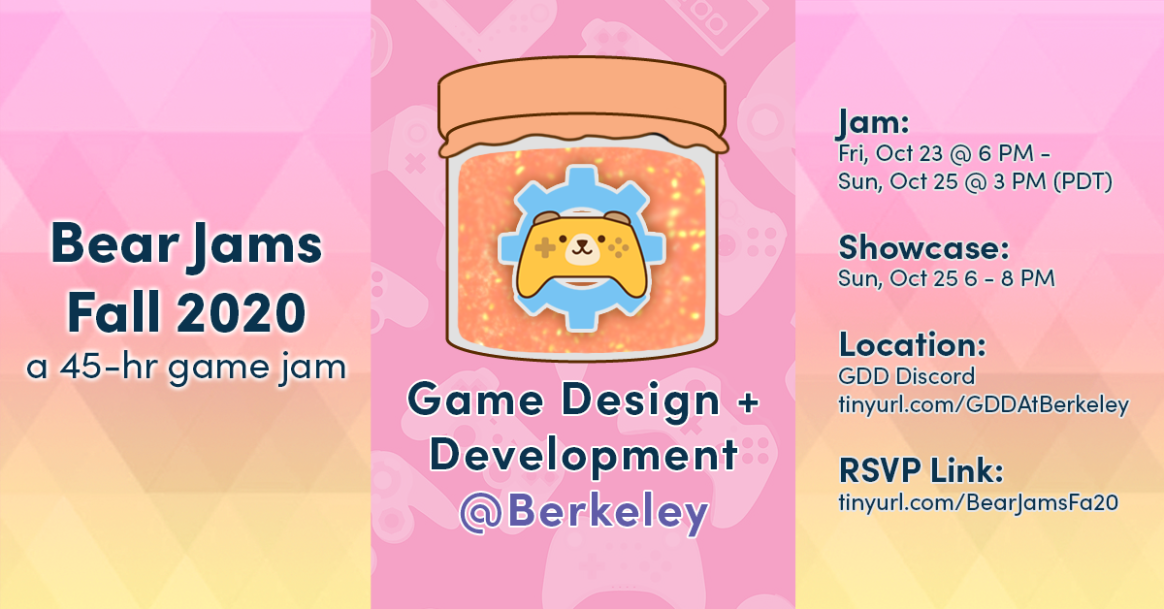
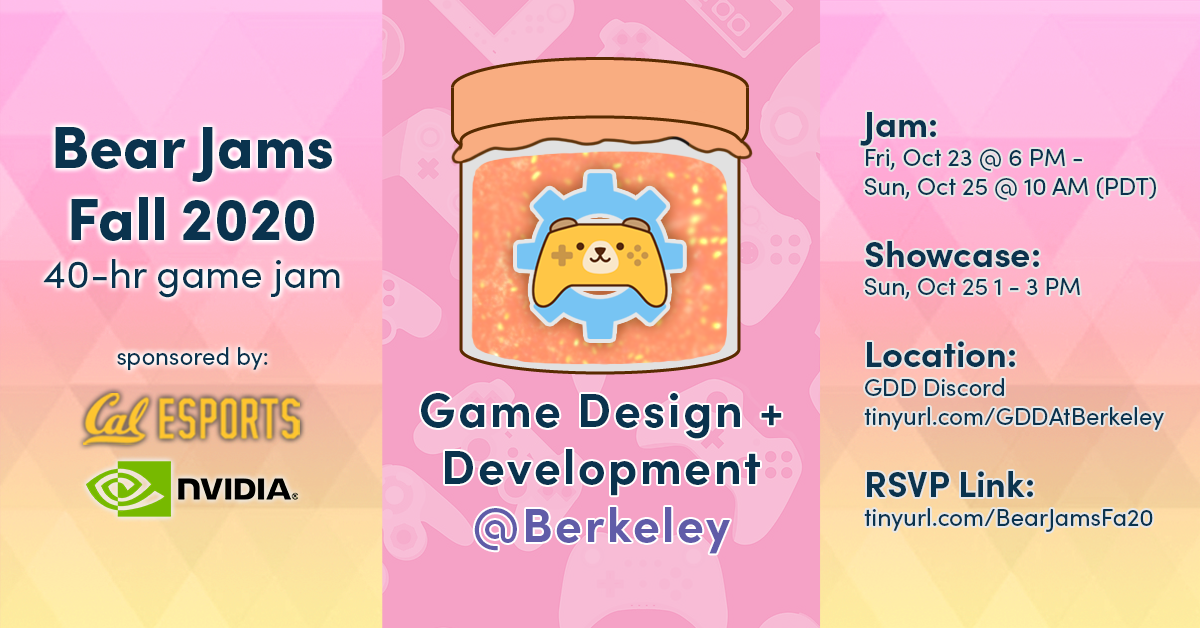
bear jams update

Changed region(s): [[0.0, 0.1872, 0.3093, 0.8424], [0.8351, 0.2808, 0.9897, 0.3432], [0.8041, 0.4368, 0.9278, 0.468]]

diff --git a/bearjams.php b/bearjams.php
@@ -69,6 +69,14 @@
                     <br><br>
                     Participation is open to everyone, not just Berkeley students! There is no difference between teams with and without students! We are excited to see all of the wonderful games you guys will create!
                     <br><br>
+                    This year, Cal Esports will be co-hosting Bear Jams with us! Thanks to their help, this year, we will also be providing the following prizes for the highest ranked teams after staff judging:
+                    <br><br>
+                    1st: $50 Steam gift cards<br>
+                    2nd: $25 Amazon gift cards<br>
+                    3rd: Under Armour Swag
+                    <br><br>
+                    These prizes will be distributed on a per-member basis for each winning team (for example, a four-person 1st-place team will win four $50 Steam gift cards).
+                    <br><br>
                     Our full Rules and Guidelines can be found here: <a href="https://tinyurl.com/BearJams-Rules">tinyurl.com/BearJams-Rules</a><br>
                     All participants MUST follow the Code of Conduct: <a href="https://tinyurl.com/BearJams-CodeOfConduct">tinyurl.com/BearJams-CodeOfConduct</a>
                 </p>
